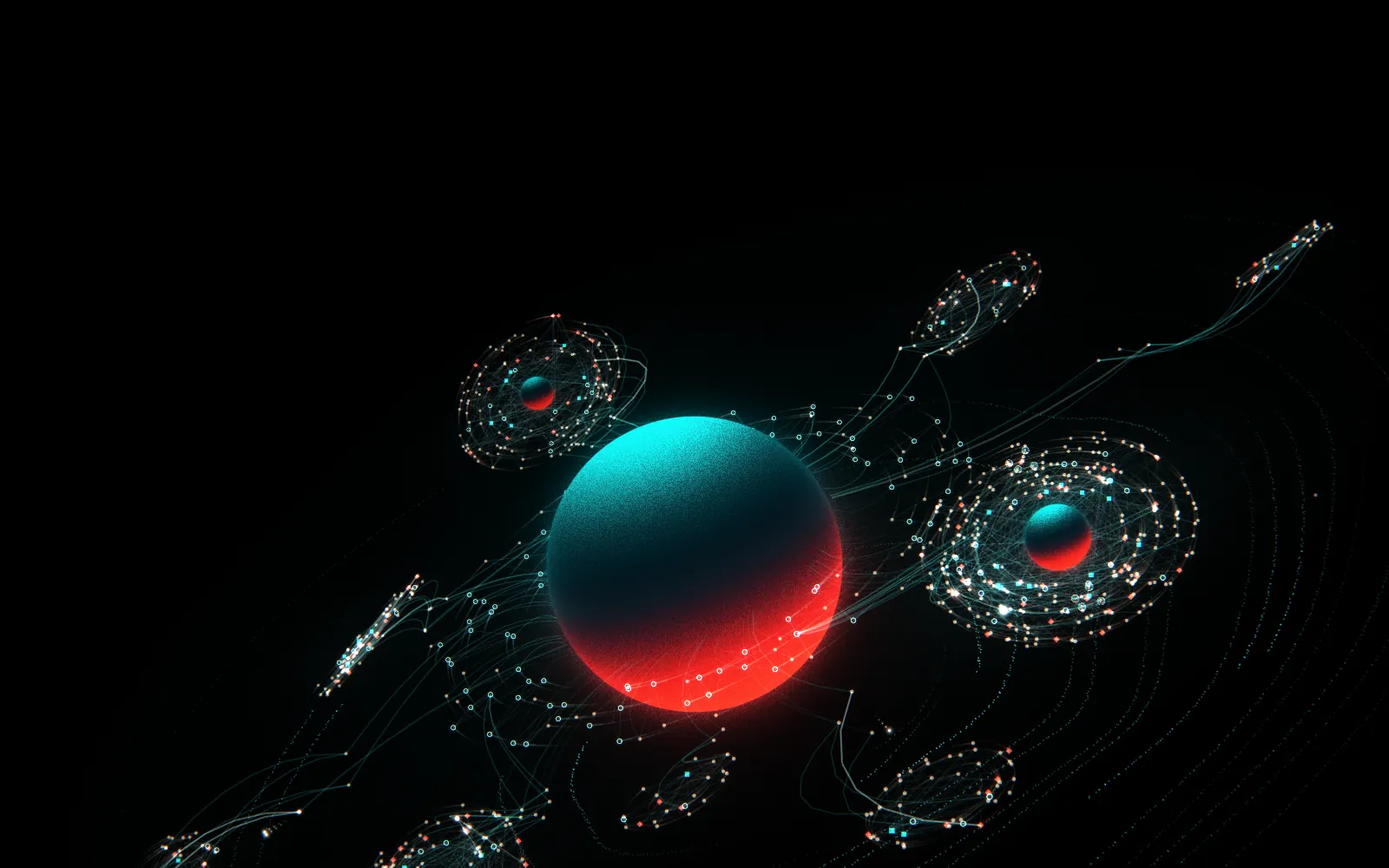
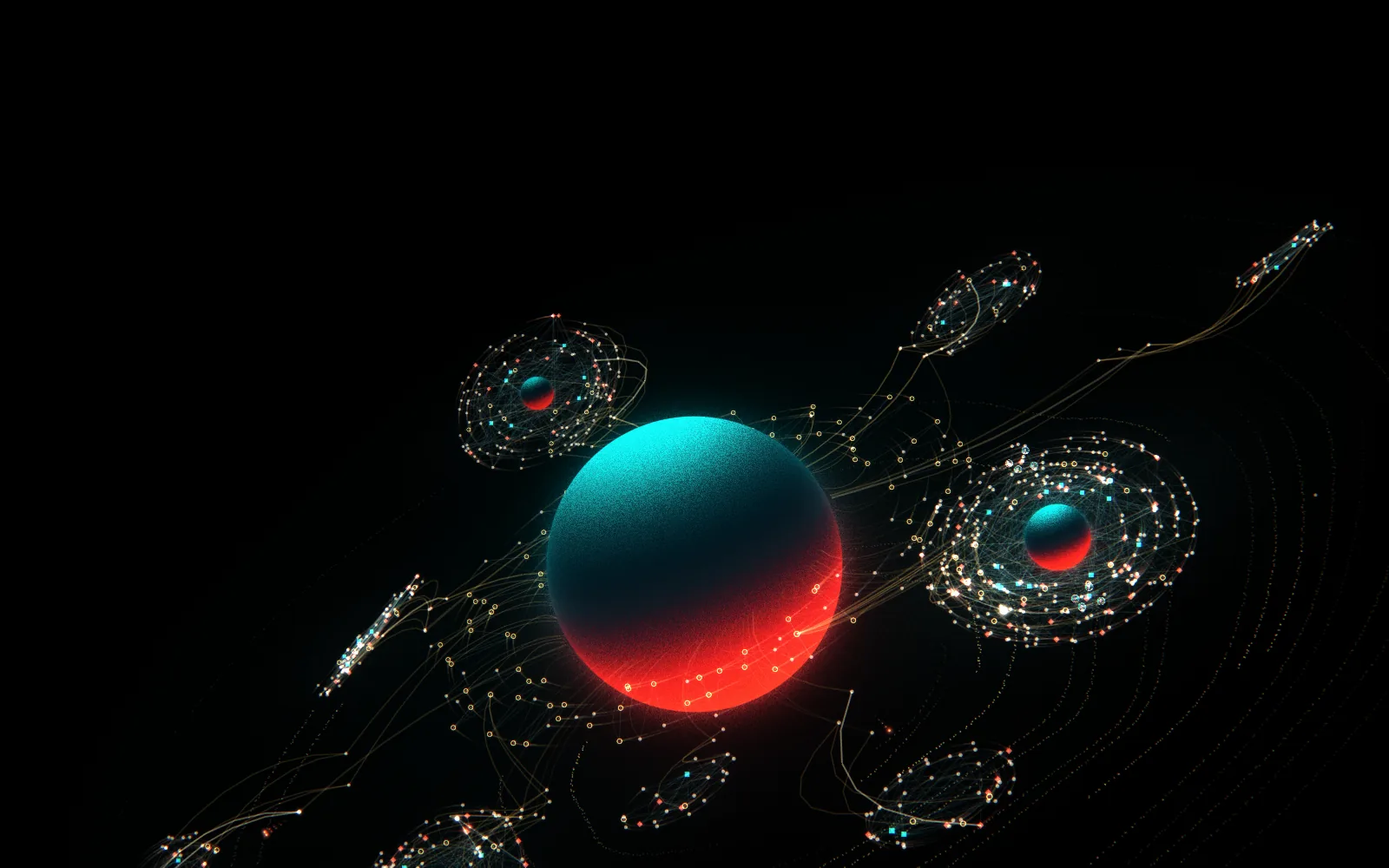
Home: one visual language for the model, the paths and the pins
The live model now speaks the same language as the three paths: places are
teal squares (learn), projects red diamonds (build), knowledge gold rings
(pass it on), people pearl dots. Contributors' ties and the orbit dust are
gold, as the emblem's orbits are, and sparks run the paths in order: red out
along a project's ties, gold up to the orb, teal back out. The hover card's
marks and the path gems are one set of enamel glyphs, the story's beats carry
their path's glyph, and the README sets the system down. Poster and share
image re-rendered.

Claude-Session: https://claude.ai/code/session_01XKsNEHi8zSBaP9Uzfm5Zkd

diff --git a/src/styles/home.css b/src/styles/home.css
@@ -45,6 +45,8 @@
 .hm-paths { margin: 0; padding: 0; list-style: none; display: grid; gap: 8px; }
 .rp .hm-path { display: flex; align-items: baseline; justify-content: space-between; gap: 16px; padding: 12px 16px; border: 1px solid rgba(255, 255, 255, 0.16); border-radius: 12px; background: rgba(0, 20, 27, 0.55);
   -webkit-backdrop-filter: blur(8px); backdrop-filter: blur(8px); font-size: 17px; font-weight: 600; color: var(--t1); text-decoration: none; transition: border-color 0.2s, background 0.2s; }
+.hm-beat .rp-step .gem { width: 9px; height: 9px; margin: 0 9px 0 2px; }
+.hm-path span .gem { width: 9px; height: 9px; margin-right: 8px; vertical-align: 0; }
 .hm-path span { font-size: 12px; font-weight: 600; letter-spacing: 0.08em; text-transform: uppercase; color: var(--teal); }
 .rp .hm-path:hover, .rp .hm-path:focus-visible { border-color: var(--teal); background: rgba(0, 148, 160, 0.16); }
 .hm-path:focus-visible { outline: 2px solid var(--teal); outline-offset: 2px; }
@@ -67,14 +69,6 @@
 .hm-card-k { display: flex; align-items: center; gap: 8px; font-size: 11px; font-weight: 600; letter-spacing: 0.1em; text-transform: uppercase; color: var(--teal); }
 .hm-card-t { margin-top: 5px !important; font-size: 15px; font-weight: 600; line-height: 1.25; color: var(--t1); }
 .hm-card-d { margin-top: 2px !important; font-size: 13px; line-height: 1.4; color: var(--t2); }
-/* The marks, as the model draws them: people warm dots, places teal squares, projects red diamonds, knowledge
-   pale rings; a Lab, a small orb. */
-.mk { display: block; width: 9px; height: 9px; flex: none; }
-.mk-person, .mk-contributor { border-radius: 50%; background: #FFDBBD; }
-.mk-place { width: 8px; height: 8px; background: #24D6DB; }
-.mk-project { width: 8px; height: 8px; background: #FF5C47; transform: rotate(45deg) scale(0.9); }
-.mk-knowledge { border-radius: 50%; border: 1.5px solid #9EFFF5; }
-.mk-lab { border-radius: 50%; background: linear-gradient(160deg, #0BD2D0 0%, #01191F 55%, #FA291B 100%); }
 /* No chapter marks, key or cue: the story is to feel, not to read. A way past it for the keyboard only. */
 .hm-skip { position: absolute; z-index: 5; left: var(--g); top: calc(var(--head) + 12px); padding: 8px 14px; border-radius: 999px; background: var(--ink); border: 1px solid var(--teal);
   font-size: 12px; font-weight: 600; letter-spacing: 0.08em; text-transform: uppercase; color: var(--t1); text-decoration: none; opacity: 0; pointer-events: none; }
@@ -174,13 +168,29 @@ html[data-cycle="open"] [data-when="closed"], html[data-cycle="closed"] [data-wh
 @media (max-width: 900px) { .hm-honest-grid { grid-template-columns: minmax(0, 1fr); } }
 @media (max-width: 680px) { .hm-isnt { grid-template-columns: minmax(0, 1fr); gap: 28px; } }
 
-/* ── the pins' language for the three paths: gems in each path's material (teal candy enamel, red candy enamel,
-   gold) with a gold rim, and the braid (src/components/Braid.astro), rendered in LabsPin.blend. ── */
-.gem { --gem: #00A8B8; --rim: #CFAB67; display: inline-block; width: 12px; height: 12px; flex: none; border-radius: 50%;
-  background: radial-gradient(circle at 34% 30%, rgba(255, 255, 255, 0.8) 0 12%, rgba(255, 255, 255, 0) 34%), var(--gem);
-  box-shadow: 0 0 0 1.5px var(--rim), 0 0 12px -2px var(--gem); }
-.gem[data-gem="build"] { --gem: #ED1920; }
-.gem[data-gem="give"] { --gem: #CFAB67; --rim: #8C6B2E; }
+/* ── one visual language (see "The visual language" in the README): the model's actors and the three paths
+   joining opens share their marks, colours and materials. The pins' materials: candy enamel with a gloss and a
+   polished gold rim, and gold itself.
+     people     a pearl dot
+     places     a teal square    learn         teal candy enamel
+     projects   a red diamond    build         red candy enamel
+     knowledge  a gold ring      pass it on    gold
+   The same glyphs mark the actors in the hero's card and the paths everywhere else (.gem[data-gem]). ── */
+.hm { --pearl: #FFDBBD; --candy-teal: #00A8B8; --candy-red: #ED1920; --gold: #CFAB67; --gold-hi: #F4DFA8; --gold-lo: #8C6B2E;
+  --gloss: radial-gradient(circle at 32% 28%, rgba(255, 255, 255, 0.85) 0 10%, rgba(255, 255, 255, 0) 36%); }
+.gem, .mk { display: inline-block; flex: none; width: 12px; height: 12px; }
+.mk { width: 10px; height: 10px; }
+.gem[data-gem="learn"], .mk-place { border-radius: 2px; background: var(--gloss), var(--candy-teal); box-shadow: 0 0 0 1.5px var(--gold), 0 0 12px -2px var(--candy-teal); }
+.gem[data-gem="build"], .mk-project { border-radius: 1.5px; background: var(--gloss), var(--candy-red); box-shadow: 0 0 0 1.5px var(--gold), 0 0 12px -2px var(--candy-red); transform: rotate(45deg) scale(0.84); }
+.gem[data-gem="give"], .mk-knowledge { border-radius: 50%; border: 2.5px solid transparent;
+  background: linear-gradient(var(--ink), var(--ink)) padding-box, linear-gradient(135deg, var(--gold-hi), var(--gold) 45%, var(--gold-lo)) border-box; box-shadow: 0 0 12px -3px var(--gold); }
+.mk-person, .mk-contributor { border-radius: 50%; background: var(--gloss), var(--pearl); }
+.mk-contributor { box-shadow: 0 0 0 1.5px var(--gold); }
+.mk-lab { border-radius: 50%; background: linear-gradient(160deg, #0BD2D0 0%, #01191F 55%, #FA291B 100%); }
+.hm-ch[data-ch="learn"] { --chc: var(--candy-teal); }
+.hm-ch[data-ch="build"] { --chc: var(--candy-red); }
+.hm-ch[data-ch="give"] { --chc: var(--gold); }
+
 .braid { overflow: hidden; -webkit-mask-image: linear-gradient(90deg, transparent, #000 7%, #000 93%, transparent); mask-image: linear-gradient(90deg, transparent, #000 7%, #000 93%, transparent); }
 .braid img { display: block; width: max(100%, 860px); height: auto; }
 
@@ -204,9 +214,6 @@ html[data-cycle="open"] [data-when="closed"], html[data-cycle="closed"] [data-wh
 
 /* ── a chapter: one path. The threads with its strand lit, its name set large, then what it is. ── */
 .hm-ch { position: relative; padding-top: clamp(150px, 22vh, 240px); }
-.hm-ch[data-ch="learn"] { --chc: #00A8B8; }
-.hm-ch[data-ch="build"] { --chc: #ED1920; }
-.hm-ch[data-ch="give"] { --chc: #CFAB67; }
 .hm-ch-in { margin-top: clamp(36px, 4vw, 56px); display: grid; grid-template-columns: minmax(0, 7fr) minmax(0, 5fr); column-gap: var(--gut); row-gap: 28px; align-items: end; }
 .hm-ch-k { margin: 0; display: flex; align-items: center; gap: 12px; font-size: var(--fs-cap); font-weight: 600; letter-spacing: 0.1em; color: var(--t2); }
 

diff --git a/src/scripts/orbnet.ts b/src/scripts/orbnet.ts
@@ -7,8 +7,12 @@
    centre. It's drawn the way actor-network theory sees an organisation: no given
    scale, only actors and their ties. People, places (the libraries), projects and
    knowledge (playbooks, code) are all actors, each its own mark:
-     people     a warm dot          places     a teal square
-     projects   a red diamond       knowledge  a pale ring
+     people     a pearl dot         places     a teal square
+     projects   a red diamond       knowledge  a gold ring
+   These are the page's glyphs too, in the pins' materials: the three paths
+   joining opens wear the same colours (learn teal, build red, pass it on
+   gold), so the model, the orbit emblem, the braid and the gems are one
+   visual language. The orbits are gold dust, as the emblem's orbits are gold.
    A Lab is nothing but its ties, and the whole behaves like a complex adaptive
    system: newcomers drift in and are pulled into the Lab with the strongest pull
    near them, new ties form as ideas spread, and it never stops rearranging.
@@ -19,10 +23,11 @@
    Dense enough, a Lab closes into a small orb of its own: a network so held
    together it reads as one thing. The Labs' orb, the logo's, is the deepest well.
 
-   Innovation arrives as jolts of energy, on a heartbeat. A project makes
-   something new and a spark runs out along its ties (white); the big ones find
-   their way up through a contributor to the orb (red). The orb flares, a
-   shockwave crosses the view, and the idea comes back down (teal) to every Lab
+   Innovation arrives as jolts of energy, on a heartbeat, and its colours tell
+   the three paths in order. A project makes something new and a spark runs
+   out along its ties (red: build); the big ones find their way up through a
+   contributor to the orb (gold: pass it on). The orb flares, a teal wave
+   crosses the orbits, and the idea comes back down (teal: learn) to every Lab
    tied to the commons, where it spreads again. Sparks strengthen the ties they
    cross, adopters form new ties, and what reaches the orb leaves new knowledge
    in the commons. Everything leaves a fading trail along its orbit.
@@ -32,11 +37,12 @@
    The page's scroll moves the camera through five shots, and each shot brings
    forward the kind of actor it's about:
      0  the logo's view: the orb and the system round it, under the title
-     1  together: inside the DC Lab, its people and the library (people, places)
+     1  learn: inside the DC Lab, its people and the library (people, places:
+        pearl dots and teal squares)
      2  build: close on a team round its project, the first cohort's faces lit
-        (projects)
-     3  further: a spark from DC up to the orb and back out to every Lab
-        (knowledge, which the commons keeps: what goes into every Lab next)
+        (projects: red diamonds)
+     3  pass it on: a spark from DC up to the orb and back out to every Lab
+        (knowledge, gold rings, which the commons keeps for every Lab next)
      4  you: the whole system from above, and the orb is the way in
 
    To make it legible, anything in it can be asked what it is: point at an
@@ -464,7 +470,7 @@ bool culled(vec3 p) { return (uM * p).z * uSide < 0.0; }`;
 const GLSL_STATE = `
 uniform highp sampler2D uPos; uniform highp sampler2D uSt; uniform highp sampler2D uOrb;
 ivec2 texAt(int i) { return ivec2(i % ${TEXW}, i / ${TEXW}); }
-const vec3 COL[5] = vec3[5](vec3(1.0, 0.86, 0.74), vec3(0.14, 0.84, 0.86), vec3(1.0, 0.36, 0.28), vec3(0.62, 1.0, 0.96), vec3(1.0, 0.78, 0.5));
+const vec3 COL[5] = vec3[5](vec3(1.0, 0.86, 0.74), vec3(0.14, 0.84, 0.86), vec3(1.0, 0.36, 0.28), vec3(1.0, 0.79, 0.44), vec3(1.0, 0.78, 0.5)); // pearl, teal, red, gold
 vec3 colOf(float kind) { int k = int(kind + 0.5); return k >= 10 ? vec3(1.0, 0.9, 0.8) : COL[min(k, 4)]; }`;
 
 const ACTOR_VS = `#version 300 es
@@ -593,7 +599,7 @@ void main() {
   float foc = uFocusAmt > 0.0 ? ((abs(aKind.y - uFocus) < 0.5 || abs(aKind.z - uFocus) < 0.5) ? 1.0 + 1.2 * uFocusAmt : 1.0 - 0.55 * uFocusAmt) : 1.0;
   float front = ib < 0 && (uM * M).z > 0.0 ? 0.35 : 1.0;
   float base = (bridge || ib < 0 ? 0.3 : 0.16) * st.x * foc * vis * front;
-  vec3 col = mix(bridge || ib < 0 ? vec3(0.24, 0.9, 0.88) : vec3(0.5, 0.78, 0.8), vec3(0.92, 0.97, 0.95), st.y * 0.75);
+  vec3 col = mix(bridge || ib < 0 ? vec3(0.95, 0.73, 0.38) : vec3(0.5, 0.78, 0.8), bridge || ib < 0 ? vec3(1.0, 0.95, 0.82) : vec3(0.92, 0.97, 0.95), st.y * 0.75); // contributors' ties are gold
   if (pod) { col = mix(col, mix(vec3(1.0, 0.82, 0.62), vec3(1.0, 0.97, 0.9) * 1.05, st.y), uPod); base += 0.4 * uPod * vis; }
   else base *= (1.0 - 0.55 * uPod) * (0.6 + 0.4 * uDense);
   float width = ((bridge ? 1.3 : 0.85) + 0.45 * (st.x - 1.0) + 0.3 * st.y + (pod ? 0.8 * uPod : 0.0)) * uPx;
@@ -679,7 +685,8 @@ ${GLSL_HASH}
 void main() {
   vec2 c = gl_PointCoord * 2.0 - 1.0; float r = dot(c, c); if (r > 1.0) discard;
   float a = vA * smoothstep(1.0, 0.1, r) * (0.6 + 0.8 * hash(gl_FragCoord.xy));
-  vec3 col = mix(vec3(0.12, 0.6, 0.64), vec3(0.5, 1.0, 0.96), clamp(vWell * 0.5 + vRip, 0.0, 1.0));
+  vec3 col = mix(vec3(0.5, 0.37, 0.17), vec3(1.0, 0.86, 0.56), clamp(vWell * 0.5, 0.0, 1.0)); // gold dust, as the emblem's orbits
+  col = mix(col, vec3(0.35, 1.0, 0.95), clamp(vRip * 1.4, 0.0, 1.0));                         // the wave from the orb: teal, learning going out
   o = vec4(col * a, a);
 }`;
 
@@ -1213,7 +1220,7 @@ export function mountOrbNet(wrap: HTMLElement, opts: OrbNetOptions = {}): OrbNet
       if (t < pu.t0) continue;
       const u = clamp((t - pu.t0) / pu.dur, 0, 1);
       const A = model.end(pu.from, pu.to), B = model.end(pu.to, pu.from);
-      const c: V3 = pu.kind === 1 ? [1, 0.3, 0.2] : pu.kind === 2 ? [0.25, 1, 0.92] : [1, 0.97, 0.88];
+      const c: V3 = pu.kind === 1 ? [1, 0.8, 0.42] : pu.kind === 2 ? [0.25, 1, 0.92] : [1, 0.42, 0.3]; // build red, pass it on gold, learn teal
       for (let k = 0; k < 5; k++) { const uu = u - k * 0.028; if (uu < 0) break; putS(lerp3(A, B, uu), k ? 8 - k * 1.1 : 13, (k ? 0.5 - k * 0.08 : 0.85) * (1 - 0.25 * u), c); }
     }
     gl!.bindBuffer(gl!.ARRAY_BUFFER, SP.buf); gl!.bufferSubData(gl!.ARRAY_BUFFER, 0, sparkArr, 0, sn * 11);

diff --git a/README.md b/README.md
@@ -97,6 +97,30 @@ The site follows The Labs Brand Style Guide via the OLOS design system. Some rul
 - One 14px radius, no pills. Circles are only for controls that really are round (the deck's action buttons). Red is only for "Join The Labs". Teal is for focus rings and accents; use teal-deep for text on light backgrounds.
 - The white logo lockup goes only on dark surfaces.
 
+## The visual language
+
+The home page's live model, the orbit emblem, the braid and the pins are one system. The idea: The Labs is a solar system you can join, a complex adaptive system round one orb, made of the same materials as its pins. Each element has one meaning, wherever it appears.
+
+- **The ground is ink** (`#00141B`). Light comes only from the glows (teal above, red below, as in the logo), with the grain only in the light, and from sparks.
+- **The orb is The Labs:** the logo's orb, with its three latitude bands. It's the deepest well, and it's always the way in (Join The Labs).
+- **Orbits are paths, in gold.** In the live model they're gold dust, bending into the wells of dense Labs. In renders they're polished gold wire. A swoosh (the logo's chevron, a craft in orbit) flies a path.
+- **One set of glyphs** (`.gem` and `.mk` in `src/styles/home.css`; the same shapes in `src/scripts/orbnet.ts`):
+
+  | Glyph | Actor in the model | Path | Colour (on the page / as light) | Material |
+  |---|---|---|---|---|
+  | pearl dot | people | (the people on every path) | `#FFDBBD` | pearl |
+  | teal square | places | **Learn** | `#00A8B8` / `#24D6DB` | teal candy enamel |
+  | red diamond | projects | **Build** | `#ED1920` / `#FF5C47` | red candy enamel |
+  | gold ring | knowledge, and contributors' ties | **Pass it on** | `#CFAB67` / `#FFCA70` | polished gold |
+  | small orb | a Lab | | the logo's bands | |
+
+- **The paths in motion.** Sparks follow the cycle: red out along a project's ties (build), gold up through a contributor to the orb (pass it on), then teal back out to every Lab (learn), where it spreads again. The wave from the orb is teal. The hero's shots go in the same order, each bringing its actors forward.
+- **The weave.** Three strands, one per path, braided (`src/components/Braid.astro`): the paths aren't steps. A chapter opens with its own strand lit and the others in dark bronze. The close shows all three. Use it only to stand for the three paths, not as an ornament.
+- **The emblem.** The orb with three gold orbits crossing over and under each other, a swoosh flying each in its path's material. It's for the moment the three paths are introduced.
+- **Materials.** Candy enamel (deep colour, a gloss, fine glitter) and polished metal, from `LabsPin.blend`. Renders use its studio and its materials: the Home Paths and Home Braid scenes. On the page, glyphs are drawn in CSS with a gloss and a gold rim.
+- **Interface colour is separate.** Teal for links, kickers and focus, and the Join button's own colour, are the interface. The candy colours mean a path. Don't use a path colour for chrome, or chrome colours for a path.
+- **Calm.** One big idea at a time on a slow heartbeat; nothing follows the cursor; no stars or dust that could be mistaken for actors. Regional Labs carry no labels until the structure is announced.
+
 ## Deliberate deviations from the v1 spec
 
 The spec's seven sections became one five-step path so an ambassador never has to choose where to go. Evidence for the cuts is in the "Ambassador guide ruthless cuts" research report.
@@ -141,7 +165,7 @@ The site never sends personal information anywhere. The ambassador application (
 
 ## Assets
 
-The home page's hero (`src/scripts/orbnet.ts`) is a live model of The Labs, plain WebGL 2, no library. The Labs as a federated, practice-based research network, drawn the way actor-network theory sees one: people, places, projects and knowledge are all actors (a warm dot, a teal square, a red diamond, a pale ring), and a Lab is nothing but their ties. Local Labs orbit the orb; a commons of contributors and shared knowledge circles it; contributors bridge each Lab to the commons. It behaves like a complex adaptive system: newcomers drift in and are pulled into the Lab with the strongest pull near them, and ideas that spread leave new ties. Gravity is the density of relationships: a dense Lab's actors orbit tighter and faster, it pulls in more newcomers, glows, bends the orbits under it into a deeper well, and past a density closes into a small orb of its own. Innovations are sparks: out along a project's ties (white), up through the commons to the orb (red), and, after the orb glows and a faint ripple crosses the orbits, back out to every Lab (teal), one spark to each by a contributor who bridges it; the heartbeat is slow on purpose (a big idea every several seconds, a small one between), so one idea can be followed rather than many flashing at once; each spark strengthens the ties it crosses, and what reaches the orb leaves new knowledge in the commons. The orb is the logo's: its three bands are latitude bands round one pole, fitted to `orb-mark.png` (rolled 22.5° left, tilted 15.4° toward the viewer), coloured from the mark by latitude. The hero is a short story told by scrolling, and it's for recruiting: it doesn't explain the structure, it gives the benefits one line at a time and leaves the model to carry the feeling of joining something bigger. The stage stays pinned while the camera moves through five shots, each with one line (`content/site/home.json`, `model`): the logo's view under the title; learn: inside the DC Lab, its people and places forward (in person, twice a week, beside people who've been where you are); build: close on a team, four people round their project passing ideas between them while the rest of the network steps back (make something real, on a team); pass it on: out between the Labs as an idea goes up to the orb and back out to all of them, the commons forward (what we figure out here goes into every Lab that comes next); and you, over the whole system (be part of something bigger). Some of DC's people are real: the first cohort's portraits (`public/home/`), as two Pods of four. Nothing follows your cursor. To make the model legible, anything in it can be asked what it is: point at an actor (on a touch screen, tap it) and a small card beside it says what it is and what it's doing here (a person in the DC Lab, on a project and meeting at DC Public Library; a project and how many people build it; knowledge and how many projects use it; a contributor who links a Lab to the commons; a newcomer drawn to the Lab with the strongest pull; one of the first cohort), while it lights up with its ties and whoever they reach, and its Lab steps forward; point at a Lab and the card says which (the DC Lab by name, the others as local Labs). The words are in `content/site/home.json` (`model.hover`). Each shot brings forward the kind of actor it's about: projects as you build, people together, knowledge (the commons) when it gets bigger. There's no chapter rail, key or scroll cue: the story is there to be felt, not read (a "Skip the story" link shows only for the keyboard, when it has focus). Over the page's own words and buttons (marked `data-quiet`) the model takes no notice of the pointer. There's no star field or foreground dust (they read as more actors), and a few fewer actors than before. The orb itself is the page's button, "Join The Labs": a real link laid exactly over it, with its label set on the orb's own face across the dark middle band (no pill beneath), revealed as you point at the orb or focus it (touch screens, which can't hover, show it in the opening and the last shot); pressing it sets off the one big pulse (the orb flares, a wave crosses the orbits, sparks go out down every tie to the Labs) before the account opens, except for a new-tab click, reduced motion, or a paused model. The orb is also the logo, so there's one orb at a time: while it's on screen the header carries the wordmark alone, and as the stage scrolls away the orb rises and docks into the header as the mark. The last shot ends in a choice of the three paths, Learn, Build and Pass it on (learn what's next, build something real, share what I know), each straight to the account with its path and one line on what comes next, and "One account opens all three. Most people weave between them.", or just see this week's workshops. It's rendered into a high-range buffer with a finishing pass (bloom on true highlights, a gentle shoulder that keeps the brand colours, grain only in the light, a faint wave when an idea reaches the orb) and composited over the page with screen blending, so the title sits inside its light. Actors grow as a shot closes in by the shot's own framing, and flashes soften where a narrow screen packs the network tight, so a phone doesn't blur a Lab into white. Quality adapts to the frame rate; there's a pause button; reduced motion gets a still frame and the four lines as a list; no WebGL keeps the poster (`public/join/hub-poster.webp`). To re-render the poster and the share image, open `/?orb=poster` and save the canvas (it's drawn with `preserveDrawingBuffer`).
+The home page's hero (`src/scripts/orbnet.ts`) is a live model of The Labs, plain WebGL 2, no library. The Labs as a federated, practice-based research network, drawn the way actor-network theory sees one: people, places, projects and knowledge are all actors (a pearl dot, a teal square, a red diamond, a gold ring: the page's glyphs, see The visual language), and a Lab is nothing but their ties. Local Labs orbit the orb, through orbits of gold dust; a commons of contributors and shared knowledge circles it; contributors bridge each Lab to the commons. It behaves like a complex adaptive system: newcomers drift in and are pulled into the Lab with the strongest pull near them, and ideas that spread leave new ties. Gravity is the density of relationships: a dense Lab's actors orbit tighter and faster, it pulls in more newcomers, glows, bends the orbits under it into a deeper well, and past a density closes into a small orb of its own. Innovations are sparks, in the three paths' colours: out along a project's ties (red, build), up through the commons to the orb (gold, pass it on), and, after the orb glows and a faint teal ripple crosses the orbits, back out to every Lab (teal, learn), one spark to each by a contributor who bridges it; the heartbeat is slow on purpose (a big idea every several seconds, a small one between), so one idea can be followed rather than many flashing at once; each spark strengthens the ties it crosses, and what reaches the orb leaves new knowledge in the commons. The orb is the logo's: its three bands are latitude bands round one pole, fitted to `orb-mark.png` (rolled 22.5° left, tilted 15.4° toward the viewer), coloured from the mark by latitude. The hero is a short story told by scrolling, and it's for recruiting: it doesn't explain the structure, it gives the benefits one line at a time and leaves the model to carry the feeling of joining something bigger. The stage stays pinned while the camera moves through five shots, each with one line (`content/site/home.json`, `model`): the logo's view under the title; learn: inside the DC Lab, its people and places forward (in person, twice a week, beside people who've been where you are); build: close on a team, four people round their project passing ideas between them while the rest of the network steps back (make something real, on a team); pass it on: out between the Labs as an idea goes up to the orb and back out to all of them, the commons forward (what we figure out here goes into every Lab that comes next); and you, over the whole system (be part of something bigger). Some of DC's people are real: the first cohort's portraits (`public/home/`), as two Pods of four. Nothing follows your cursor. To make the model legible, anything in it can be asked what it is: point at an actor (on a touch screen, tap it) and a small card beside it says what it is and what it's doing here (a person in the DC Lab, on a project and meeting at DC Public Library; a project and how many people build it; knowledge and how many projects use it; a contributor who links a Lab to the commons; a newcomer drawn to the Lab with the strongest pull; one of the first cohort), while it lights up with its ties and whoever they reach, and its Lab steps forward; point at a Lab and the card says which (the DC Lab by name, the others as local Labs). The words are in `content/site/home.json` (`model.hover`). Each shot brings forward the kind of actor it's about: projects as you build, people together, knowledge (the commons) when it gets bigger. There's no chapter rail, key or scroll cue: the story is there to be felt, not read (a "Skip the story" link shows only for the keyboard, when it has focus). Over the page's own words and buttons (marked `data-quiet`) the model takes no notice of the pointer. There's no star field or foreground dust (they read as more actors), and a few fewer actors than before. The orb itself is the page's button, "Join The Labs": a real link laid exactly over it, with its label set on the orb's own face across the dark middle band (no pill beneath), revealed as you point at the orb or focus it (touch screens, which can't hover, show it in the opening and the last shot); pressing it sets off the one big pulse (the orb flares, a wave crosses the orbits, sparks go out down every tie to the Labs) before the account opens, except for a new-tab click, reduced motion, or a paused model. The orb is also the logo, so there's one orb at a time: while it's on screen the header carries the wordmark alone, and as the stage scrolls away the orb rises and docks into the header as the mark. The last shot ends in a choice of the three paths, Learn, Build and Pass it on (learn what's next, build something real, share what I know), each straight to the account with its path and one line on what comes next, and "One account opens all three. Most people weave between them.", or just see this week's workshops. It's rendered into a high-range buffer with a finishing pass (bloom on true highlights, a gentle shoulder that keeps the brand colours, grain only in the light, a faint wave when an idea reaches the orb) and composited over the page with screen blending, so the title sits inside its light. Actors grow as a shot closes in by the shot's own framing, and flashes soften where a narrow screen packs the network tight, so a phone doesn't blur a Lab into white. Quality adapts to the frame rate; there's a pause button; reduced motion gets a still frame and the four lines as a list; no WebGL keeps the poster (`public/join/hub-poster.webp`). To re-render the poster and the share image, open `/?orb=poster` and save the canvas (it's drawn with `preserveDrawingBuffer`).
 
 `npm run covers` makes the portrait crops of the three chapter covers that phones get (`public/join/*-p-900.webp` and `*-p-1400.webp`, from the 1800w files, centred on each cover's `position`). The phone-sized orbits video (`orbits-600.mp4`, `orbits-600.webm`) was encoded with ffmpeg at 600px wide; re-encode it the same way if the source changes.
 
